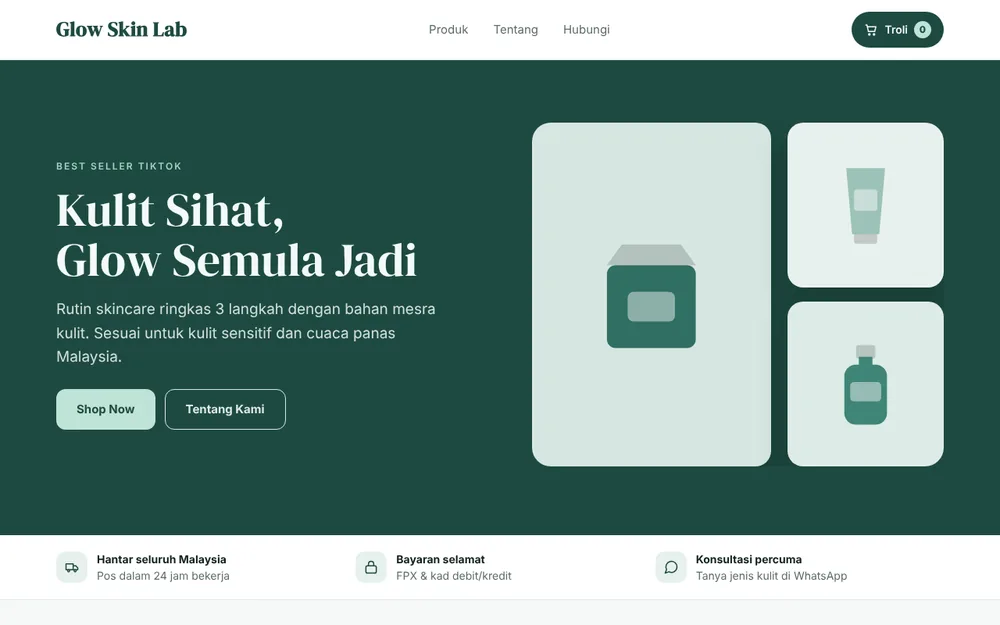
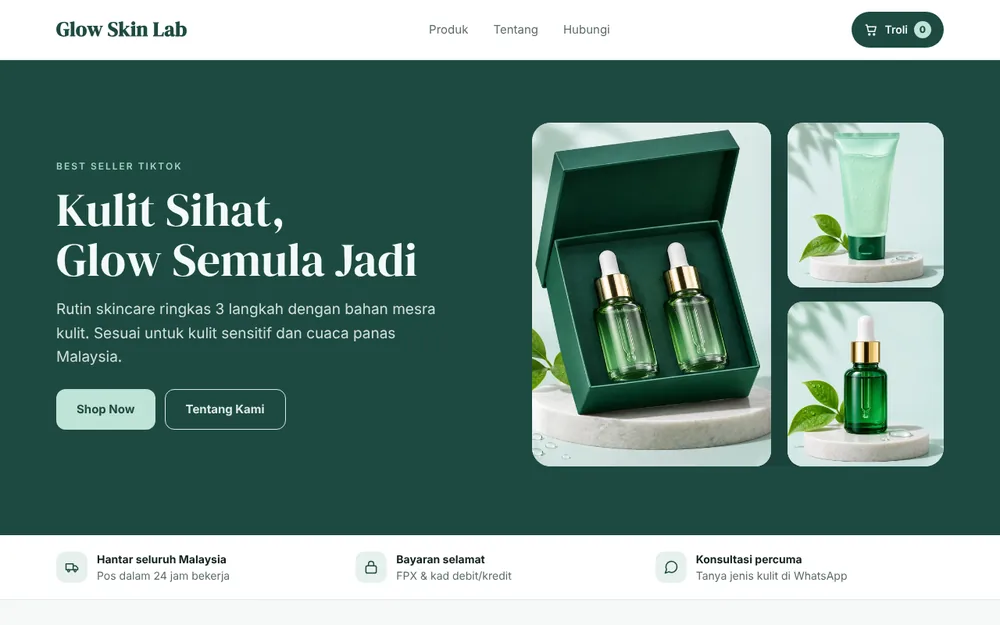
Demo skincare: gambar produk sebenar + screenshot portfolio baru
Claude-Session: https://claude.ai/code/session_016PHqGdSGQm5iPk51qSq48s

Changed region(s): [[0.527, 0.1824, 0.961, 0.76]]

diff --git a/demo/skincare/index.html b/demo/skincare/index.html
@@ -43,14 +43,14 @@ window.KEDAI = {
   categories: ['Cleanser', 'Serum', 'Moisturizer', 'Set'],
   shipping: 7,
   products: [
-    { id: 's1', name: 'Serum Combo Set', cat: 'Set', price: 129, old: 159, badge: 'BEST SELLER', desc: 'Niacinamide + Vitamin C untuk 30 hari.', shape: 'box', color: '#2F6F62', bg: '#D6E6E1' },
-    { id: 's2', name: 'Gentle Gel Cleanser', cat: 'Cleanser', price: 39, desc: 'Pembersih pH seimbang, tak kering.', shape: 'tube', color: '#9CC2B7', bg: '#E8F1EE' },
-    { id: 's3', name: 'Niacinamide 10% Serum', cat: 'Serum', price: 59, badge: 'VIRAL', desc: 'Bantu kecilkan liang pori & minyak.', shape: 'bottle', color: '#3F8576', bg: '#DCEBE6' },
-    { id: 's4', name: 'Vitamin C Bright Serum', cat: 'Serum', price: 65, desc: 'Ratakan tona kulit & kesan jerawat.', shape: 'bottle', color: '#E2B65C', bg: '#F5EEDC' },
-    { id: 's5', name: 'Water Cream Moisturizer', cat: 'Moisturizer', price: 55, desc: 'Ringan, cepat serap, tak melekit.', shape: 'jar', color: '#BFD6CF', bg: '#EEF4F2' },
-    { id: 's6', name: 'Barrier Repair Cream', cat: 'Moisturizer', price: 69, desc: 'Ceramide untuk kulit sensitif.', shape: 'jar', color: '#7FAA9D', bg: '#E3EEEA' },
-    { id: 's7', name: 'Foam Cleanser Rice', cat: 'Cleanser', price: 35, old: 42, desc: 'Buih lembut dengan ekstrak beras.', shape: 'tube', color: '#E8DCC8', bg: '#F6F1E8' },
-    { id: 's8', name: 'Starter Kit 3 Langkah', cat: 'Set', price: 99, badge: 'JIMAT', desc: 'Cleanser, serum & moisturizer saiz travel.', shape: 'box', color: '#9CC2B7', bg: '#E1EDE9' }
+    { id: 's1', img: 'img/s1.webp?v=1', name: 'Serum Combo Set', cat: 'Set', price: 129, old: 159, badge: 'BEST SELLER', desc: 'Niacinamide + Vitamin C untuk 30 hari.', shape: 'box', color: '#2F6F62', bg: '#D6E6E1' },
+    { id: 's2', img: 'img/s2.webp?v=1', name: 'Gentle Gel Cleanser', cat: 'Cleanser', price: 39, desc: 'Pembersih pH seimbang, tak kering.', shape: 'tube', color: '#9CC2B7', bg: '#E8F1EE' },
+    { id: 's3', img: 'img/s3.webp?v=1', name: 'Niacinamide 10% Serum', cat: 'Serum', price: 59, badge: 'VIRAL', desc: 'Bantu kecilkan liang pori & minyak.', shape: 'bottle', color: '#3F8576', bg: '#DCEBE6' },
+    { id: 's4', img: 'img/s4.webp?v=1', name: 'Vitamin C Bright Serum', cat: 'Serum', price: 65, desc: 'Ratakan tona kulit & kesan jerawat.', shape: 'bottle', color: '#E2B65C', bg: '#F5EEDC' },
+    { id: 's5', img: 'img/s5.webp?v=1', name: 'Water Cream Moisturizer', cat: 'Moisturizer', price: 55, desc: 'Ringan, cepat serap, tak melekit.', shape: 'jar', color: '#BFD6CF', bg: '#EEF4F2' },
+    { id: 's6', img: 'img/s6.webp?v=1', name: 'Barrier Repair Cream', cat: 'Moisturizer', price: 69, desc: 'Ceramide untuk kulit sensitif.', shape: 'jar', color: '#7FAA9D', bg: '#E3EEEA' },
+    { id: 's7', img: 'img/s7.webp?v=1', name: 'Foam Cleanser Rice', cat: 'Cleanser', price: 35, old: 42, desc: 'Buih lembut dengan ekstrak beras.', shape: 'tube', color: '#E8DCC8', bg: '#F6F1E8' },
+    { id: 's8', img: 'img/s8.webp?v=1', name: 'Starter Kit 3 Langkah', cat: 'Set', price: 99, badge: 'JIMAT', desc: 'Cleanser, serum & moisturizer saiz travel.', shape: 'box', color: '#9CC2B7', bg: '#E1EDE9' }
   ],
   about: {
     title: 'Ringkas, Jujur, Sesuai Kulit Tropika',

diff --git a/index.html b/index.html
@@ -638,7 +638,7 @@ details p{padding:0 20px 22px;font-size:15px;line-height:1.65;color:#C9D1E0}
       <article class="card t-skin">
         <div class="card-prev"><div class="browser">
           <div class="b-bar"><i></i><i></i><i></i><span>websitesme.my/demo/skincare</span></div>
-          <img class="b-shot" src="assets/preview/port-skincare.webp" alt="Preview kedai demo skincare" width="1000" height="625" loading="lazy"></div></div>
+          <img class="b-shot" src="assets/preview/port-skincare.webp?v=2" alt="Preview kedai demo skincare" width="1000" height="625" loading="lazy"></div></div>
         <div class="card-info">
           <div>
             <div class="card-title"><h3>Glow Skin Lab</h3><span class="pill demo">DEMO</span></div>
